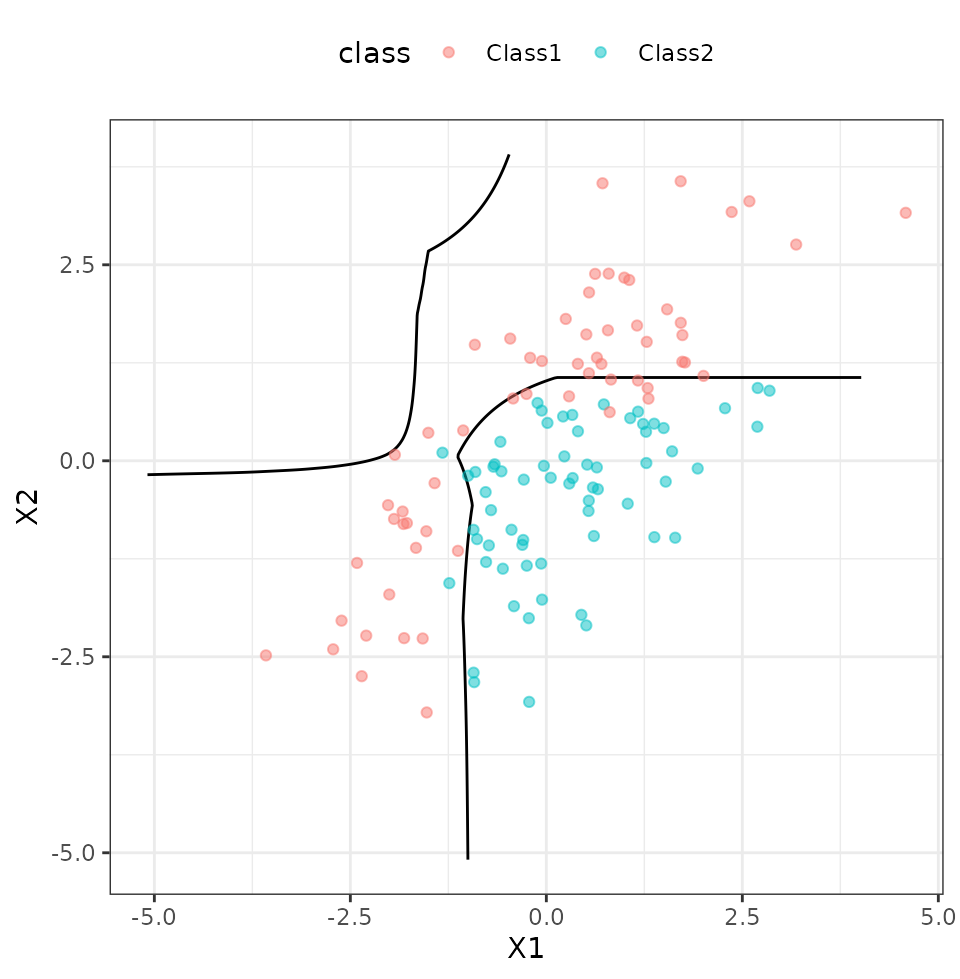
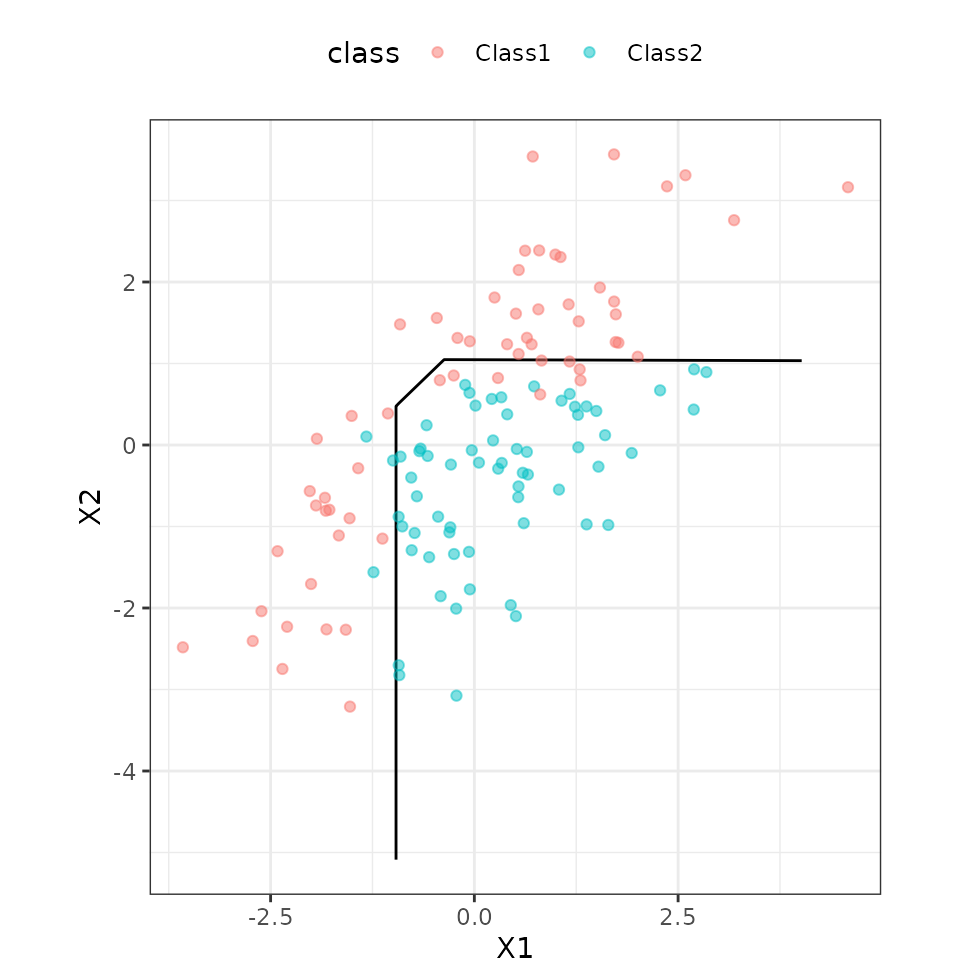
Built site for workflowsets: 0.0.0.9001@6ef1ef5

diff --git a/articles/articles/tuning-and-comparing-models.html b/articles/articles/tuning-and-comparing-models.html
@@ -153,11 +153,11 @@
   <span class="va">all_workflows</span> <span class="op">%&gt;%</span> 
   <span class="fu"><a href="../../reference/workflow_map.html">workflow_map</a></span><span class="op">(</span>resamples <span class="op">=</span> <span class="va">train_resamples</span>, grid <span class="op">=</span> <span class="fl">20</span>, verbose <span class="op">=</span> <span class="cn">TRUE</span><span class="op">)</span>
 <span class="co">#&gt; i 1 of 3 tuning:     formula_regularized</span>
-<span class="co">#&gt; ✔ 1 of 3 tuning:     formula_regularized (3m 6s)</span>
+<span class="co">#&gt; ✔ 1 of 3 tuning:     formula_regularized (3m 25.6s)</span>
 <span class="co">#&gt; i 2 of 3 tuning:     formula_mars</span>
-<span class="co">#&gt; ✔ 2 of 3 tuning:     formula_mars (19.7s)</span>
+<span class="co">#&gt; ✔ 2 of 3 tuning:     formula_mars (20.9s)</span>
 <span class="co">#&gt; i 3 of 3 tuning:     formula_cart</span>
-<span class="co">#&gt; ✔ 3 of 3 tuning:     formula_cart (2m 51.2s)</span>
+<span class="co">#&gt; ✔ 3 of 3 tuning:     formula_cart (3m 6.1s)</span>
 <span class="va">all_workflows</span>
 <span class="co">#&gt; # A workflow set/tibble: 3 x 4</span>
 <span class="co">#&gt;   wflow_id            info             option    result   </span>
@@ -186,14 +186,15 @@
 
 <span class="co"># or a handy plot: </span>
 <span class="fu"><a href="https://ggplot2.tidyverse.org/reference/autoplot.html">autoplot</a></span><span class="op">(</span><span class="va">all_workflows</span>, metric <span class="op">=</span> <span class="st">"roc_auc"</span><span class="op">)</span></code></pre></div>
-<p><img src="tuning-and-comparing-models_files/figure-html/rank_res-1.png" width="576" style="display: block; margin: auto;"></p>
+<p><img src="tuning-and-comparing-models_files/figure-html/rank_res-1.png" width="100%" style="display: block; margin: auto;"></p>
 <p>It looks like the MARS model did well. We can plot its results and also pull out the tuning object too:</p>
 <div class="sourceCode" id="cb9"><pre class="downlit sourceCode r">
-<code class="sourceCode R"><span class="fu"><a href="https://ggplot2.tidyverse.org/reference/autoplot.html">autoplot</a></span><span class="op">(</span><span class="va">all_workflows</span>, metric <span class="op">=</span> <span class="st">"roc_auc"</span>, which <span class="op">=</span> <span class="st">"formula_mars"</span><span class="op">)</span></code></pre></div>
+<code class="sourceCode R"><span class="fu"><a href="https://ggplot2.tidyverse.org/reference/autoplot.html">autoplot</a></span><span class="op">(</span><span class="va">all_workflows</span>, metric <span class="op">=</span> <span class="st">"roc_auc"</span>, id <span class="op">=</span> <span class="st">"formula_mars"</span><span class="op">)</span></code></pre></div>
 <p><img src="tuning-and-comparing-models_files/figure-html/mars-1.png" width="576" style="display: block; margin: auto;"></p>
+<p>Not much of a difference in performance; it may be prudent to use the additive model (via <code>prod_degree = 1</code>).</p>
+<p>We can also pull out the results of <code><a href="https://tune.tidymodels.org/reference/tune_grid.html">tune_grid()</a></code> for this model:</p>
 <div class="sourceCode" id="cb10"><pre class="downlit sourceCode r">
-<code class="sourceCode R">
-<span class="va">mars_results</span> <span class="op">&lt;-</span> 
+<code class="sourceCode R"><span class="va">mars_results</span> <span class="op">&lt;-</span> 
   <span class="va">all_workflows</span> <span class="op">%&gt;%</span> 
   <span class="fu"><a href="../../reference/pull_workflow_result.html">pull_workflow_result</a></span><span class="op">(</span><span class="st">"formula_mars"</span><span class="op">)</span>
 <span class="va">mars_results</span>
@@ -236,7 +237,7 @@
 
 <span class="va">mars_workflow_fit</span> <span class="op">&lt;-</span> 
   <span class="va">mars_workflow</span> <span class="op">%&gt;%</span> 
-  <span class="fu"><a href="https://tune.tidymodels.org/reference/finalize_model.html">finalize_workflow</a></span><span class="op">(</span><span class="fu"><a href="https://tibble.tidyverse.org/reference/tibble.html">tibble</a></span><span class="op">(</span>prod_degree <span class="op">=</span> <span class="fl">2</span><span class="op">)</span><span class="op">)</span> <span class="op">%&gt;%</span> 
+  <span class="fu"><a href="https://tune.tidymodels.org/reference/finalize_model.html">finalize_workflow</a></span><span class="op">(</span><span class="fu"><a href="https://tibble.tidyverse.org/reference/tibble.html">tibble</a></span><span class="op">(</span>prod_degree <span class="op">=</span> <span class="fl">1</span><span class="op">)</span><span class="op">)</span> <span class="op">%&gt;%</span> 
   <span class="fu"><a href="https://generics.r-lib.org/reference/fit.html">fit</a></span><span class="op">(</span>data <span class="op">=</span> <span class="va">train_set</span><span class="op">)</span>
 <span class="va">mars_workflow_fit</span>
 <span class="co">#&gt; ══ Workflow [trained] ══════════════════════════════════════════════════════════</span>
@@ -249,7 +250,7 @@
 <span class="co">#&gt; ── Model ───────────────────────────────────────────────────────────────────────</span>
 <span class="co">#&gt; Call:</span>
 <span class="co">#&gt; mda::fda(formula = ..y ~ ., data = data, method = earth::earth, </span>
-<span class="co">#&gt;     degree = ~2)</span>
+<span class="co">#&gt;     degree = ~1)</span>
 <span class="co">#&gt; </span>
 <span class="co">#&gt; Dimension: 1 </span>
 <span class="co">#&gt; </span>
@@ -257,7 +258,7 @@
 <span class="co">#&gt;  v1 </span>
 <span class="co">#&gt; 100 </span>
 <span class="co">#&gt; </span>
-<span class="co">#&gt; Training Misclassification Error: 0.09867 ( N = 375 )</span></code></pre></div>
+<span class="co">#&gt; Training Misclassification Error: 0.10933 ( N = 375 )</span></code></pre></div>
 <p>Let’s see how well these data work on the test set:</p>
 <div class="sourceCode" id="cb12"><pre class="downlit sourceCode r">
 <code class="sourceCode R"><span class="co"># Make a grid to predict the whole space:</span>
@@ -275,7 +276,7 @@
   <span class="fu">geom_point</span><span class="op">(</span>data <span class="op">=</span> <span class="va">test_set</span>, <span class="fu">aes</span><span class="op">(</span>col <span class="op">=</span> <span class="va">class</span><span class="op">)</span>, alpha <span class="op">=</span> <span class="fl">0.5</span><span class="op">)</span> <span class="op">+</span> 
   <span class="fu">coord_fixed</span><span class="op">(</span>ratio <span class="op">=</span> <span class="fl">1</span><span class="op">)</span></code></pre></div>
 <p><img src="tuning-and-comparing-models_files/figure-html/2d-boundary-1.png" width="480" style="display: block; margin: auto;"></p>
-<p>Th workflow set allows us to screen many models to find one that does very well. This can be combined with parallel processing and, especially, racing methods from the <a href="https://finetune.tidymodels.org/reference/tune_race_anova.html"><code>finetune</code></a> package to optimize the efficiency.</p>
+<p>The workflow set allows us to screen many models to find one that does very well. This can be combined with parallel processing and, especially, racing methods from the <a href="https://finetune.tidymodels.org/reference/tune_race_anova.html"><code>finetune</code></a> package to optimize the efficiency.</p>
   </div>
 
   <div class="col-md-3 hidden-xs hidden-sm" id="pkgdown-sidebar">

diff --git a/reference/workflow_set.html b/reference/workflow_set.html
@@ -262,12 +262,12 @@ used in that argument (i.e., <code>preproc</code> can be mixed types).</p>
 #&gt; $outcomes
 #&gt; </span><span style='font-weight: bold;'>&lt;quosure&gt;</span><span>
 #&gt; expr: </span><span style='color: #0000BB;'>^class</span><span>
-#&gt; env:  </span><span style='color: #0000BB;'>0x55fdd7a60bb0</span><span>
+#&gt; env:  </span><span style='color: #0000BB;'>0x55ae8f5e3d80</span><span>
 #&gt; 
 #&gt; $predictors
 #&gt; </span><span style='font-weight: bold;'>&lt;quosure&gt;</span><span>
 #&gt; expr: </span><span style='color: #0000BB;'>^c(contains("ch_1"))</span><span>
-#&gt; env:  </span><span style='color: #0000BB;'>0x55fdd7a60bb0</span><span>
+#&gt; env:  </span><span style='color: #0000BB;'>0x55ae8f5e3d80</span><span>
 #&gt; 
 #&gt; attr(,"class")
 #&gt; [1] "workflow_variables"
@@ -276,12 +276,12 @@ used in that argument (i.e., <code>preproc</code> can be mixed types).</p>
 #&gt; $outcomes
 #&gt; </span><span style='font-weight: bold;'>&lt;quosure&gt;</span><span>
 #&gt; expr: </span><span style='color: #0000BB;'>^class</span><span>
-#&gt; env:  </span><span style='color: #0000BB;'>0x55fdd7a64b78</span><span>
+#&gt; env:  </span><span style='color: #0000BB;'>0x55ae8f5e7d48</span><span>
 #&gt; 
 #&gt; $predictors
 #&gt; </span><span style='font-weight: bold;'>&lt;quosure&gt;</span><span>
 #&gt; expr: </span><span style='color: #0000BB;'>^c(contains("ch_2"))</span><span>
-#&gt; env:  </span><span style='color: #0000BB;'>0x55fdd7a64b78</span><span>
+#&gt; env:  </span><span style='color: #0000BB;'>0x55ae8f5e7d48</span><span>
 #&gt; 
 #&gt; attr(,"class")
 #&gt; [1] "workflow_variables"
@@ -290,12 +290,12 @@ used in that argument (i.e., <code>preproc</code> can be mixed types).</p>
 #&gt; $outcomes
 #&gt; </span><span style='font-weight: bold;'>&lt;quosure&gt;</span><span>
 #&gt; expr: </span><span style='color: #0000BB;'>^class</span><span>
-#&gt; env:  </span><span style='color: #0000BB;'>0x55fdd7a03830</span><span>
+#&gt; env:  </span><span style='color: #0000BB;'>0x55ae8f36d860</span><span>
 #&gt; 
 #&gt; $predictors
 #&gt; </span><span style='font-weight: bold;'>&lt;quosure&gt;</span><span>
 #&gt; expr: </span><span style='color: #0000BB;'>^c(contains("ch_3"))</span><span>
-#&gt; env:  </span><span style='color: #0000BB;'>0x55fdd7a03830</span><span>
+#&gt; env:  </span><span style='color: #0000BB;'>0x55ae8f36d860</span><span>
 #&gt; 
 #&gt; attr(,"class")
 #&gt; [1] "workflow_variables"
@@ -304,19 +304,19 @@ used in that argument (i.e., <code>preproc</code> can be mixed types).</p>
 #&gt; $outcomes
 #&gt; </span><span style='font-weight: bold;'>&lt;quosure&gt;</span><span>
 #&gt; expr: </span><span style='color: #0000BB;'>^class</span><span>
-#&gt; env:  </span><span style='color: #0000BB;'>0x55fdd7a05168</span><span>
+#&gt; env:  </span><span style='color: #0000BB;'>0x55ae8f36f198</span><span>
 #&gt; 
 #&gt; $predictors
 #&gt; </span><span style='font-weight: bold;'>&lt;quosure&gt;</span><span>
 #&gt; expr: </span><span style='color: #0000BB;'>^c(contains("ch_4"))</span><span>
-#&gt; env:  </span><span style='color: #0000BB;'>0x55fdd7a05168</span><span>
+#&gt; env:  </span><span style='color: #0000BB;'>0x55ae8f36f198</span><span>
 #&gt; 
 #&gt; attr(,"class")
 #&gt; [1] "workflow_variables"
 #&gt; 
 #&gt; $everything
 #&gt; class ~ .
-#&gt; &lt;environment: 0x55fddc533e00&gt;
+#&gt; &lt;environment: 0x55ae91ef4588&gt;
 #&gt; </div><div class='input'>
 <span class='va'>cell_set_by_group</span> <span class='op'>&lt;-</span> <span class='fu'>workflow_set</span><span class='op'>(</span><span class='va'>preproc</span>, <span class='va'>models</span><span class='op'>[</span><span class='st'>"logistic"</span><span class='op'>]</span><span class='op'>)</span>
 <span class='va'>cell_set_by_group</span>

diff --git a/reference/leave_var_out_formulas.html b/reference/leave_var_out_formulas.html
@@ -205,7 +205,7 @@ such terms).</p>
 #&gt; 
 #&gt; $everything
 #&gt; bill_length_mm ~ .
-#&gt; &lt;environment: 0x55fddbca4398&gt;
+#&gt; &lt;environment: 0x55ae91670bf8&gt;
 #&gt; </div><div class='input'>
 <span class='fu'>leave_var_out_formulas</span><span class='op'>(</span>
    <span class='va'>bill_length_mm</span> <span class='op'>~</span> <span class='op'>(</span><span class='va'>island</span> <span class='op'>+</span> <span class='va'>sex</span><span class='op'>)</span><span class='op'>^</span><span class='fl'>2</span> <span class='op'>+</span> <span class='va'>flipper_length_mm</span>,
@@ -229,7 +229,7 @@ such terms).</p>
 #&gt; 
 #&gt; $everything
 #&gt; bill_length_mm ~ (island + sex)^2 + flipper_length_mm
-#&gt; &lt;environment: 0x55fddbca4398&gt;
+#&gt; &lt;environment: 0x55ae91670bf8&gt;
 #&gt; </div><div class='input'>
 <span class='fu'>leave_var_out_formulas</span><span class='op'>(</span>
    <span class='va'>bill_length_mm</span> <span class='op'>~</span> <span class='op'>(</span><span class='va'>island</span> <span class='op'>+</span> <span class='va'>sex</span><span class='op'>)</span><span class='op'>^</span><span class='fl'>2</span> <span class='op'>+</span> <span class='va'>flipper_length_mm</span> <span class='op'>+</span>
@@ -258,7 +258,7 @@ such terms).</p>
 #&gt; 
 #&gt; $everything
 #&gt; bill_length_mm ~ (island + sex)^2 + flipper_length_mm + I(flipper_length_mm^2)
-#&gt; &lt;environment: 0x55fddbca4398&gt;
+#&gt; &lt;environment: 0x55ae91670bf8&gt;
 #&gt; </div></pre>
   </div>
   <div class="col-md-3 hidden-xs hidden-sm" id="pkgdown-sidebar">
